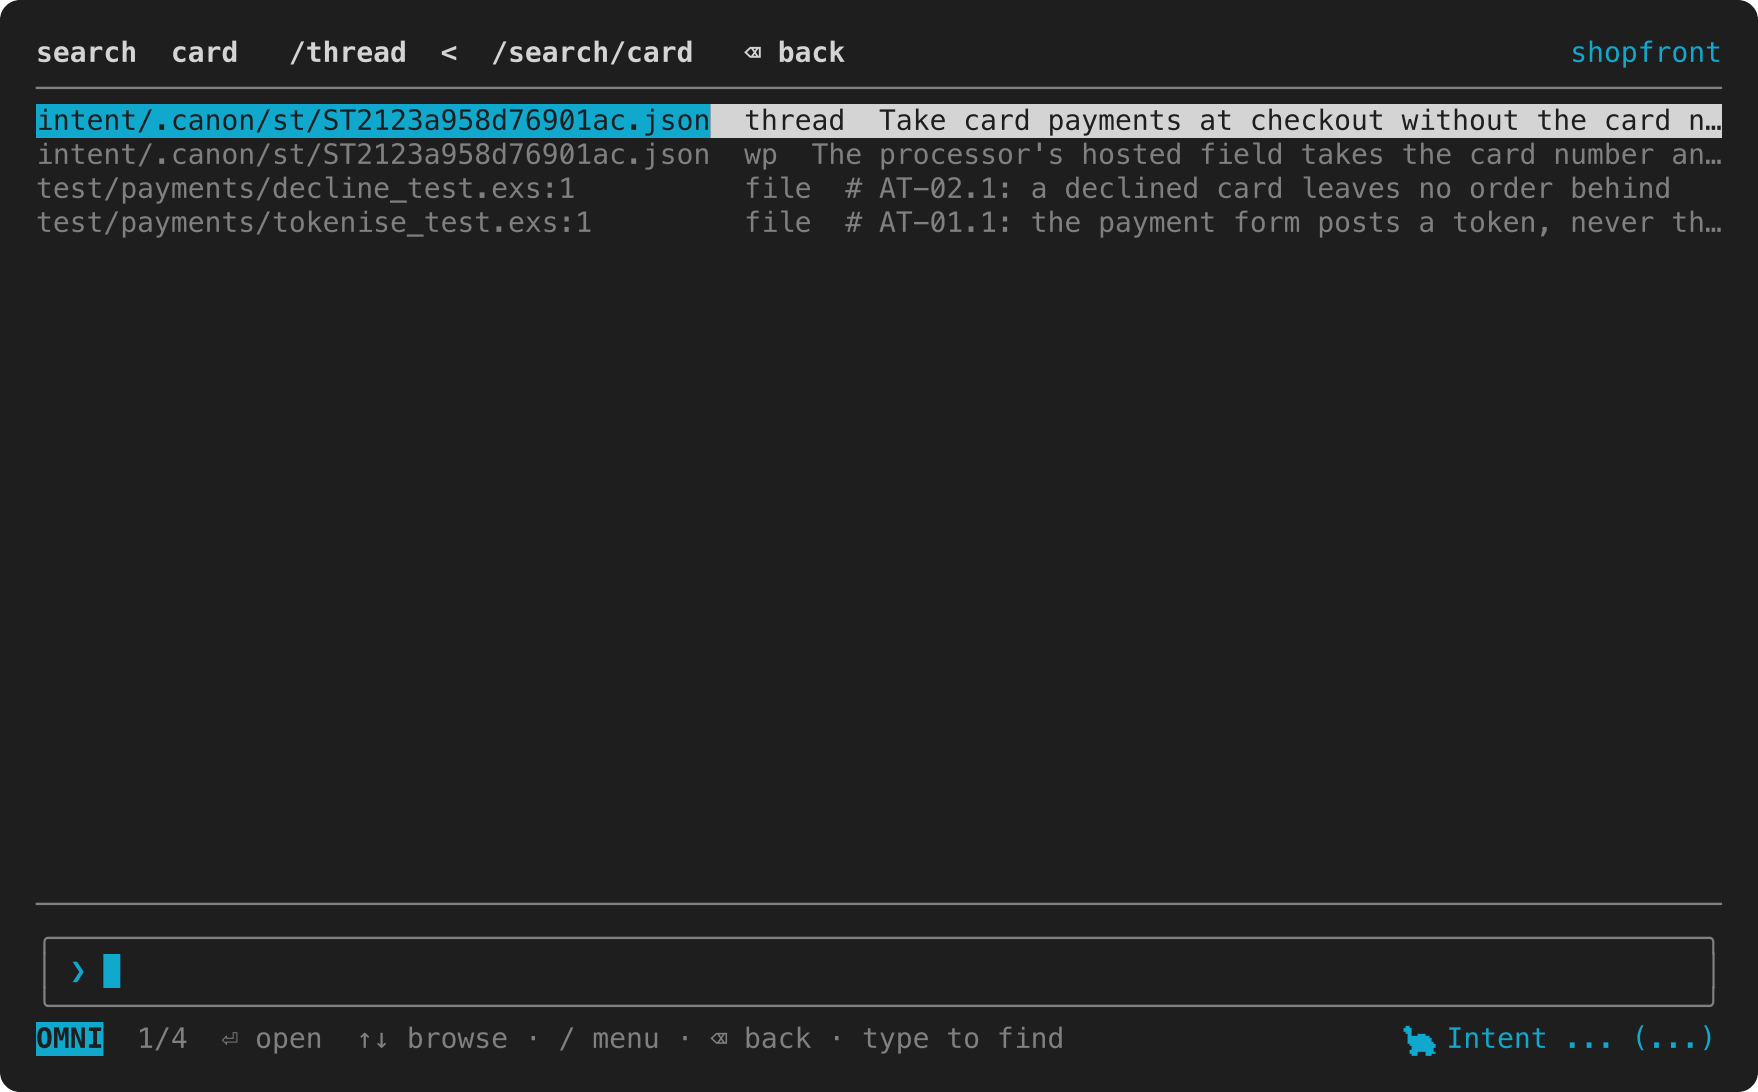
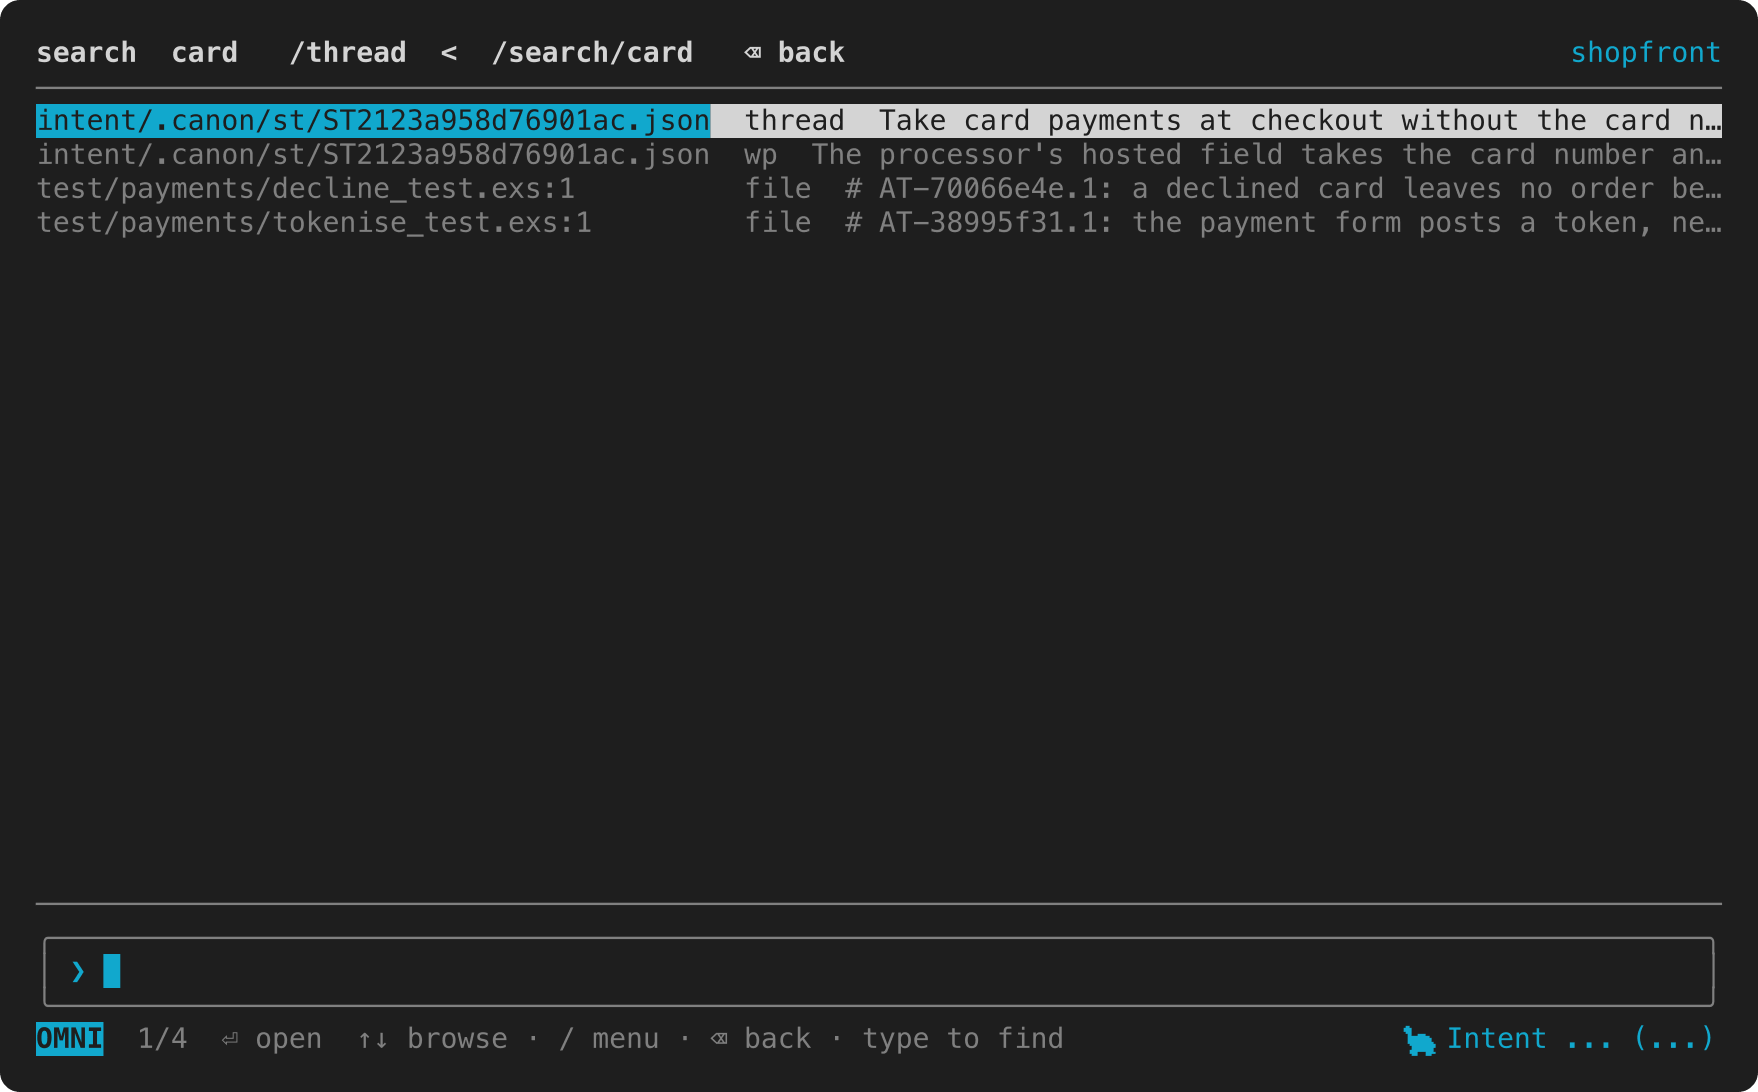
docs: releasing.md step 2 for v3.5.2 at 75d209050: the reference set against v3.5.1, known-defects.md re-driven whole, and the explorer's shots
Reference: gen_reference.sh and gen_cut_surface.sh at rev 75d2090502fb against --baseline v3.5.1, the answer of `git describe --tags --abbrev=0`. Both halves are at one revision, with --out naming cut-surface.md. 185 commands are documented of 185 shipped, and cut-surface.md lists 150 refusals. reference_current_check.sh says "docs/reference describes HEAD against v3.5.1" (rc 0).

Known defects: every entry was driven in a fresh scratch project under an isolated HOME, against the pair build all made at 75d209050, when `intent --version` printed `intent 3.5.1 (dev, 75d2090502fb) dev`. The page is retitled for v3.5.2, and each transcript was rebuilt from the log by mkpage.pl. pagecheck.sh finds all 13 of the page's output lines in the log.
[…]

Changed region(s): [[0.5222, 0.1557, 0.9829, 0.2179]]

diff --git a/docs/known-defects.md b/docs/known-defects.md
@@ -1,6 +1,6 @@
-# Known defects in v3.5.1
+# Known defects in v3.5.2
 
-**Every defect on this page has been run against the build v3.5.1 is cut from.** Not inferred from our issue register: driven against that build before its version stamp moved, when `intent --version` printed `intent 3.5.0 (dev, 0e4246cd8058) dev`, each in a fresh scratch project under an isolated `HOME`. A project this build makes mints git-style ids, so the threads and work packages in the transcripts below carry ids such as `STc4a3b1ba8d3762a6`, and a run of your own will mint different ones. Where a claim could not be driven it is not on the page, and the last sections say what that leaves out.
+**Every defect on this page has been run against the build v3.5.2 is cut from.** Not inferred from our issue register: driven against that build before its version stamp moved, when `intent --version` printed `intent 3.5.1 (dev, 75d2090502fb) dev`, each in a fresh scratch project under an isolated `HOME`. A project this build makes mints git-style ids, so the threads and work packages in the transcripts below carry ids such as `STc4a3b1ba8d3762a6`, and a run of your own will mint different ones. Where a claim could not be driven it is not on the page, and the last sections say what that leaves out.
 
 **A defect is on this page if you can hit it by following the documentation correctly.** Something that only bites a maintainer editing the register, or a team sharing one checkout, is recorded against the issue rather than here.
 
@@ -14,15 +14,15 @@
 
 ```
   $ intent search KDPROBE1 --json | jq -c '{hits: [.groups[]?.hits[]?.path], complete: .index.complete, reconciled: .index.reconciled, reconciled_at: .index.reconciled_at}'
-  {"hits":["src/probe1.rs"],"complete":true,"reconciled":false,"reconciled_at":"2026-11-22T11:31:58.279Z"}
+  {"hits":["src/probe1.rs"],"complete":true,"reconciled":false,"reconciled_at":"2026-11-23T20:51:02.928Z"}
   $ intent search KDPROBE2 --json | jq -c '{hits: [.groups[]?.hits[]?.path], complete: .index.complete, reconciled: .index.reconciled, reconciled_at: .index.reconciled_at}'
-  {"hits":[],"complete":true,"reconciled":false,"reconciled_at":"2026-11-22T11:31:58.279Z"}
+  {"hits":[],"complete":true,"reconciled":false,"reconciled_at":"2026-11-23T20:51:02.928Z"}
   $ intent search KDPROBE3 --json | jq -c '{hits: [.groups[]?.hits[]?.path], complete: .index.complete, reconciled: .index.reconciled, reconciled_at: .index.reconciled_at}'
-  {"hits":[],"complete":true,"reconciled":false,"reconciled_at":"2026-11-22T11:31:58.279Z"}
+  {"hits":[],"complete":true,"reconciled":false,"reconciled_at":"2026-11-23T20:51:02.928Z"}
   $ intent search KDPROBE4 --json | jq -c '{hits: [.groups[]?.hits[]?.path], complete: .index.complete, reconciled: .index.reconciled, reconciled_at: .index.reconciled_at}'
-  {"hits":[],"complete":true,"reconciled":false,"reconciled_at":"2026-11-22T11:31:58.279Z"}
+  {"hits":[],"complete":true,"reconciled":false,"reconciled_at":"2026-11-23T20:51:02.928Z"}
   $ intent search KDPROBE5 --json | jq -c '{hits: [.groups[]?.hits[]?.path], complete: .index.complete, reconciled: .index.reconciled, reconciled_at: .index.reconciled_at}'
-  {"hits":[],"complete":true,"reconciled":false,"reconciled_at":"2026-11-22T11:31:58.279Z"}
+  {"hits":[],"complete":true,"reconciled":false,"reconciled_at":"2026-11-23T20:51:02.928Z"}
   $ intent daemon stop
   ok: intentd stopped
   $ intent search KDPROBE5 --json | jq -c '{hits: [.groups[]?.hits[]?.path], complete: .index.complete, reconciled: .index.reconciled}'
@@ -33,30 +33,16 @@ The same search with the daemon stopped reconciles first and finds the file. How
 
 **To search a tree you have just changed, stop the daemon first** (`intent daemon stop`), or search again once the watcher has caught up. An answer that reads `"reconciled": false` did not look at the tree before it answered.
 
-## A stray directory disables the whole project
-
-**A directory directly under `intent/st/`, or one level below one, that holds an `info.md` and no `thread.json` is picked up as a thread, and one it cannot read stops commands that have nothing to do with it** (`intent#0011`). A staging copy at `intent/st/staging/ST0099/` holding `info.md` and `acceptance.md`, copied from a thread this build rendered, is enough. What you get is not a duplicate row in a listing, it is:
-
-```
-  $ intent st list
-  error: this project has not been migrated to Intent v3 -- it declares Intent 3.5.0, and 1 steel thread carries v2 canon this binary cannot read (ST0099)
-    remedy: run `intent upgrade` to migrate this project to Intent v3
-```
-
-at exit 1. `intent issues list` and `intent todo`, which have nothing to do with the stray thread, stop at the same wall at exit 1, and `intent doctor` reports it as `residue: unmigrated` and exits 4, the code for an estate it could not judge. The remedy is misleading: the project is fine and one directory is not. Keep working copies of threads outside `intent/st/`.
-
-**A second route reaches the same wall.** A thread placed under an `_inbox/` status directory produces the identical stop (`intent#0066`). Two different stray-directory shapes, one symptom, and in both cases the message names a thread the operator never created.
-
 ## Threads
 
 **`intent wp show` prints a short header, not the work package's `info.md`** (`intent#0245`). After writing a body with `intent set intent:///threads/<thread>/wp/<package> body <text>` and hydrating the thread, `intent/st/<thread>/WP/<package>/info.md` is on disk carrying that body, and:
 
 ```
-  $ intent wp show STc4a3b1ba8d3762a6/882ae810
-  STc4a3b1b/WP-882a: first package
+  $ intent wp show ST9d36de572f1c6cab/8637d85e
+  ST9d36de5/WP-8637: first package
   status: Not Started
   scope: S
-  criteria: none scoped to STc4a3b1b/882a
+  criteria: none scoped to ST9d36de5/8637
 ```
 
 None of the body is shown. `intent wp --help` describes the verb as `Show work package info.md`, so the description and the behaviour disagree. Read the file directly if you want its body.
@@ -66,10 +52,10 @@ None of the body is shown. `intent wp --help` describes the verb as `Show work p
 **The close gate passes a test row that cites no file** (`intent#0213`, and `intent#0229`, a second row for the same code site filed from an independent report). Create an AT with the default `--kind test` and no `--file`, take it red and then green, and both of these exit 0:
 
 ```
-  $ intent at lint ST5141719ba7014bcf
-  lint: ST5141719ba7014bcf ok -- 0 of 1 AT row(s) examined and conforming; 1 not examined (1 with a verdict and NO READABLE CITATION)
-  $ intent ac gate ST5141719ba7014bcf
-  gate: ST5141719ba7014bcf PASS -- 1/1 satisfied
+  $ intent at lint STd07ec824e0413e61
+  lint: STd07ec824e0413e61 ok -- 0 of 1 AT row(s) examined and conforming; 1 not examined (1 with a verdict and NO READABLE CITATION)
+  $ intent ac gate STd07ec824e0413e61
+  gate: STd07ec824e0413e61 PASS -- 1/1 satisfied
 ```
 
 `at lint` names the row it did not examine and still answers `ok`; `ac gate` passes over it and says nothing.

diff --git a/docs/reference/cut-surface.md b/docs/reference/cut-surface.md
@@ -1,10 +1,10 @@
 # What Intent ships at `HEAD`
 
-**Generated by `intent/st/ST0056/parity/tools/gen_cut_surface.sh` at 2026-11-23 20:11Z. Do not edit -- re-run it.**
+**Generated by `intent/st/ST0056/parity/tools/gen_cut_surface.sh` at 2026-11-23 20:50Z. Do not edit -- re-run it.**
 
 |                         |                                                       |
 | ----------------------- | ----------------------------------------------------- |
-| Revision this describes | `8815ee5882742a6318d2dfd9b588ed39d9432b05` (`HEAD`)   |
+| Revision this describes | `75d2090502fbfe6b1b8c9638b9f7af1e5a47fff3` (`HEAD`)   |
 | Compared against        | `1cc654e5a36ef3cbe5d8d5aaa4ffc1dd5d096711` (`v3.5.1`) |
 
 **Everything here is a property of one revision.** A list copied out of this file without the revision beside it is true when copied and silently false at the next merge -- which is the exact defect this artefact was built to stop. **It carries no counts for the same reason.** Your own binary answers for itself: `intent --help` and `intent <family> --help` list what it ships, and `intent surface retired` lists what it refuses as retired.

diff --git a/docs/reference/intent-ext.md b/docs/reference/intent-ext.md
@@ -1,12 +1,12 @@
 # `intent ext`
 
-**Generated by `intent/st/ST0056/parity/tools/gen_reference.sh` at 2026-11-23 20:11Z. Do not edit -- re-run it.**
+**Generated by `intent/st/ST0056/parity/tools/gen_reference.sh` at 2026-11-23 20:50Z. Do not edit -- re-run it.**
 
 Manage Intent user extensions -- not implemented in this build; nothing reads ~/.local/share/intent/ext/
 
 |                                      |                                                     |
 | ------------------------------------ | --------------------------------------------------- |
-| Revision this describes              | `8815ee5882742a6318d2dfd9b588ed39d9432b05` (`HEAD`) |
+| Revision this describes              | `75d2090502fbfe6b1b8c9638b9f7af1e5a47fff3` (`HEAD`) |
 | Release presence is reported against | `v3.5.1`                                            |
 
 **The register is a declaration, not a behaviour claim.** The command surface is built from `surface/dispatch-table.json`, so the register at a revision states what that revision exposes. It does not state that any of it works. Where this page and your binary disagree, **your binary is right**.

diff --git a/docs/reference/commands.md b/docs/reference/commands.md
@@ -1,12 +1,12 @@
 # Top-level commands
 
-**Generated by `intent/st/ST0056/parity/tools/gen_reference.sh` at 2026-11-23 20:11Z. Do not edit -- re-run it.**
+**Generated by `intent/st/ST0056/parity/tools/gen_reference.sh` at 2026-11-23 20:50Z. Do not edit -- re-run it.**
 
 The commands that take no subcommand: project lifecycle, the store, and the tooling verbs.
 
 |                                      |                                                     |
 | ------------------------------------ | --------------------------------------------------- |
-| Revision this describes              | `8815ee5882742a6318d2dfd9b588ed39d9432b05` (`HEAD`) |
+| Revision this describes              | `75d2090502fbfe6b1b8c9638b9f7af1e5a47fff3` (`HEAD`) |
 | Release presence is reported against | `v3.5.1`                                            |
 
 **The register is a declaration, not a behaviour claim.** The command surface is built from `surface/dispatch-table.json`, so the register at a revision states what that revision exposes. It does not state that any of it works. Where this page and your binary disagree, **your binary is right**.

diff --git a/docs/reference/intent-config.md b/docs/reference/intent-config.md
@@ -1,12 +1,12 @@
 # `intent config`
 
-**Generated by `intent/st/ST0056/parity/tools/gen_reference.sh` at 2026-11-23 20:11Z. Do not edit -- re-run it.**
+**Generated by `intent/st/ST0056/parity/tools/gen_reference.sh` at 2026-11-23 20:50Z. Do not edit -- re-run it.**
 
 Display the resolved project configuration -- not implemented in this build (exits 2)
 
 |                                      |                                                     |
 | ------------------------------------ | --------------------------------------------------- |
-| Revision this describes              | `8815ee5882742a6318d2dfd9b588ed39d9432b05` (`HEAD`) |
+| Revision this describes              | `75d2090502fbfe6b1b8c9638b9f7af1e5a47fff3` (`HEAD`) |
 | Release presence is reported against | `v3.5.1`                                            |
 
 **The register is a declaration, not a behaviour claim.** The command surface is built from `surface/dispatch-table.json`, so the register at a revision states what that revision exposes. It does not state that any of it works. Where this page and your binary disagree, **your binary is right**.

diff --git a/docs/reference/intent-estate.md b/docs/reference/intent-estate.md
@@ -1,12 +1,12 @@
 # `intent estate`
 
-**Generated by `intent/st/ST0056/parity/tools/gen_reference.sh` at 2026-11-23 20:11Z. Do not edit -- re-run it.**
+**Generated by `intent/st/ST0056/parity/tools/gen_reference.sh` at 2026-11-23 20:50Z. Do not edit -- re-run it.**
 
 Every Claude session on this host: who it is, where it stands, and what it is doing
 
 |                                      |                                                     |
 | ------------------------------------ | --------------------------------------------------- |
-| Revision this describes              | `8815ee5882742a6318d2dfd9b588ed39d9432b05` (`HEAD`) |
+| Revision this describes              | `75d2090502fbfe6b1b8c9638b9f7af1e5a47fff3` (`HEAD`) |
 | Release presence is reported against | `v3.5.1`                                            |
 
 **The register is a declaration, not a behaviour claim.** The command surface is built from `surface/dispatch-table.json`, so the register at a revision states what that revision exposes. It does not state that any of it works. Where this page and your binary disagree, **your binary is right**.

diff --git a/docs/reference/intent-index.md b/docs/reference/intent-index.md
@@ -1,12 +1,12 @@
 # `intent index`
 
-**Generated by `intent/st/ST0056/parity/tools/gen_reference.sh` at 2026-11-23 20:11Z. Do not edit -- re-run it.**
+**Generated by `intent/st/ST0056/parity/tools/gen_reference.sh` at 2026-11-23 20:50Z. Do not edit -- re-run it.**
 
 The search index: what it holds, rebuilding it, and resolving its references
 
 |                                      |                                                     |
 | ------------------------------------ | --------------------------------------------------- |
-| Revision this describes              | `8815ee5882742a6318d2dfd9b588ed39d9432b05` (`HEAD`) |
+| Revision this describes              | `75d2090502fbfe6b1b8c9638b9f7af1e5a47fff3` (`HEAD`) |
 | Release presence is reported against | `v3.5.1`                                            |
 
 **The register is a declaration, not a behaviour claim.** The command surface is built from `surface/dispatch-table.json`, so the register at a revision states what that revision exposes. It does not state that any of it works. Where this page and your binary disagree, **your binary is right**.

diff --git a/docs/reference/intent-agents.md b/docs/reference/intent-agents.md
@@ -1,12 +1,12 @@
 # `intent agents`
 
-**Generated by `intent/st/ST0056/parity/tools/gen_reference.sh` at 2026-11-23 20:11Z. Do not edit -- re-run it.**
+**Generated by `intent/st/ST0056/parity/tools/gen_reference.sh` at 2026-11-23 20:50Z. Do not edit -- re-run it.**
 
 Manage AGENTS.md -- the primary tool-agnostic LLM config at project root
 
 |                                      |                                                     |
 | ------------------------------------ | --------------------------------------------------- |
-| Revision this describes              | `8815ee5882742a6318d2dfd9b588ed39d9432b05` (`HEAD`) |
+| Revision this describes              | `75d2090502fbfe6b1b8c9638b9f7af1e5a47fff3` (`HEAD`) |
 | Release presence is reported against | `v3.5.1`                                            |
 
 **The register is a declaration, not a behaviour claim.** The command surface is built from `surface/dispatch-table.json`, so the register at a revision states what that revision exposes. It does not state that any of it works. Where this page and your binary disagree, **your binary is right**.

diff --git a/docs/reference/intent-claude.md b/docs/reference/intent-claude.md
@@ -1,12 +1,12 @@
 # `intent claude`
 
-**Generated by `intent/st/ST0056/parity/tools/gen_reference.sh` at 2026-11-23 20:11Z. Do not edit -- re-run it.**
+**Generated by `intent/st/ST0056/parity/tools/gen_reference.sh` at 2026-11-23 20:50Z. Do not edit -- re-run it.**
 
 Claude Code integration: subagents, skills, rules, hooks, workstreams
 
 |                                      |                                                     |
 | ------------------------------------ | --------------------------------------------------- |
-| Revision this describes              | `8815ee5882742a6318d2dfd9b588ed39d9432b05` (`HEAD`) |
+| Revision this describes              | `75d2090502fbfe6b1b8c9638b9f7af1e5a47fff3` (`HEAD`) |
 | Release presence is reported against | `v3.5.1`                                            |
 
 **The register is a declaration, not a behaviour claim.** The command surface is built from `surface/dispatch-table.json`, so the register at a revision states what that revision exposes. It does not state that any of it works. Where this page and your binary disagree, **your binary is right**.

diff --git a/docs/reference/intent-todo.md b/docs/reference/intent-todo.md
@@ -1,12 +1,12 @@
 # `intent todo`
 
-**Generated by `intent/st/ST0056/parity/tools/gen_reference.sh` at 2026-11-23 20:11Z. Do not edit -- re-run it.**
+**Generated by `intent/st/ST0056/parity/tools/gen_reference.sh` at 2026-11-23 20:50Z. Do not edit -- re-run it.**
 
 A flat DOING / TODO / DONE view of steel threads and work packages
 
 |                                      |                                                     |
 | ------------------------------------ | --------------------------------------------------- |
-| Revision this describes              | `8815ee5882742a6318d2dfd9b588ed39d9432b05` (`HEAD`) |
+| Revision this describes              | `75d2090502fbfe6b1b8c9638b9f7af1e5a47fff3` (`HEAD`) |
 | Release presence is reported against | `v3.5.1`                                            |
 
 **The register is a declaration, not a behaviour claim.** The command surface is built from `surface/dispatch-table.json`, so the register at a revision states what that revision exposes. It does not state that any of it works. Where this page and your binary disagree, **your binary is right**.

diff --git a/docs/reference/intent-ac.md b/docs/reference/intent-ac.md
@@ -1,12 +1,12 @@
 # `intent ac`
 
-**Generated by `intent/st/ST0056/parity/tools/gen_reference.sh` at 2026-11-23 20:11Z. Do not edit -- re-run it.**
+**Generated by `intent/st/ST0056/parity/tools/gen_reference.sh` at 2026-11-23 20:50Z. Do not edit -- re-run it.**
 
 Acceptance criteria: the ratified completeness boundary of a unit
 
 |                                      |                                                     |
 | ------------------------------------ | --------------------------------------------------- |
-| Revision this describes              | `8815ee5882742a6318d2dfd9b588ed39d9432b05` (`HEAD`) |
+| Revision this describes              | `75d2090502fbfe6b1b8c9638b9f7af1e5a47fff3` (`HEAD`) |
 | Release presence is reported against | `v3.5.1`                                            |
 
 **The register is a declaration, not a behaviour claim.** The command surface is built from `surface/dispatch-table.json`, so the register at a revision states what that revision exposes. It does not state that any of it works. Where this page and your binary disagree, **your binary is right**.

diff --git a/docs/reference/intent-at.md b/docs/reference/intent-at.md
@@ -1,12 +1,12 @@
 # `intent at`
 
-**Generated by `intent/st/ST0056/parity/tools/gen_reference.sh` at 2026-11-23 20:11Z. Do not edit -- re-run it.**
+**Generated by `intent/st/ST0056/parity/tools/gen_reference.sh` at 2026-11-23 20:50Z. Do not edit -- re-run it.**
 
 Acceptance tests: the small red-to-green tests that prove ACs
 
 |                                      |                                                     |
 | ------------------------------------ | --------------------------------------------------- |
-| Revision this describes              | `8815ee5882742a6318d2dfd9b588ed39d9432b05` (`HEAD`) |
+| Revision this describes              | `75d2090502fbfe6b1b8c9638b9f7af1e5a47fff3` (`HEAD`) |
 | Release presence is reported against | `v3.5.1`                                            |
 
 **The register is a declaration, not a behaviour claim.** The command surface is built from `surface/dispatch-table.json`, so the register at a revision states what that revision exposes. It does not state that any of it works. Where this page and your binary disagree, **your binary is right**.
